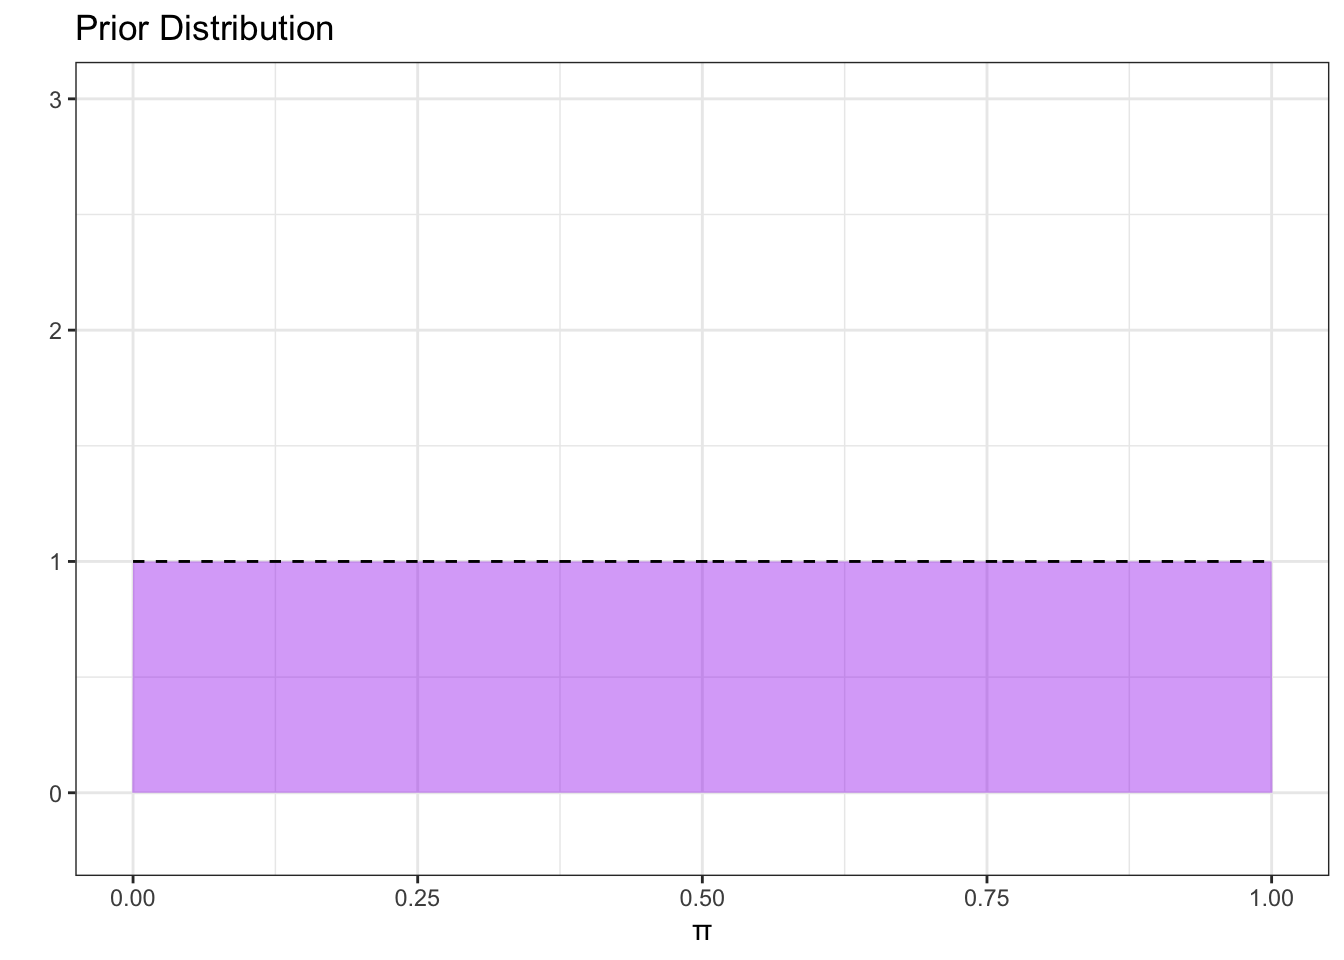
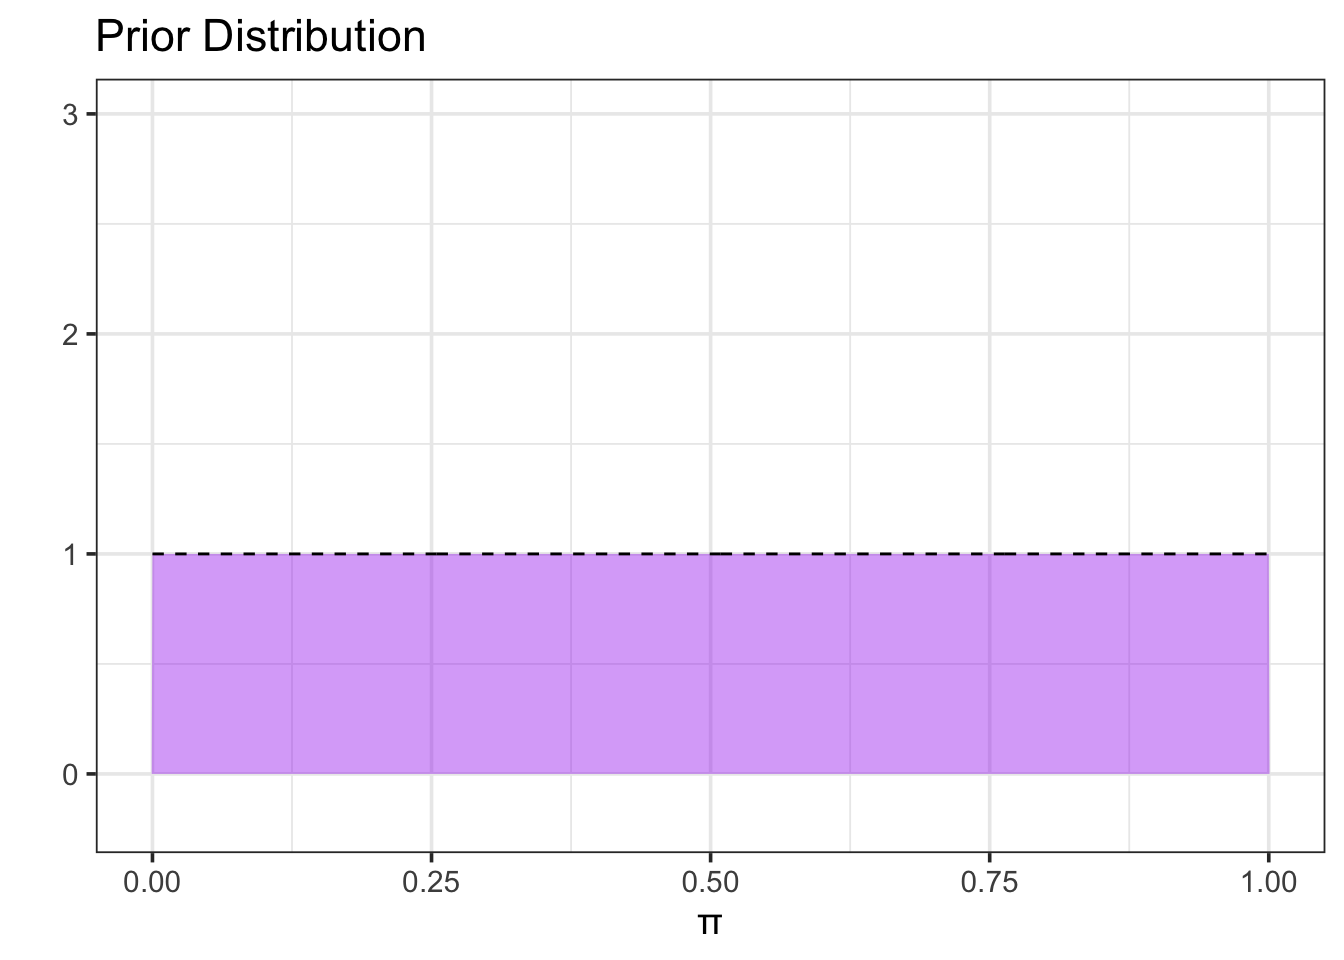
add formula for posterior

diff --git a/chytrid_prop_est_activity.html b/chytrid_prop_est_activity.html
@@ -359,7 +359,7 @@ globalThis.qwebrCustomizedWebROptions = {
 };
 
 // Store cell data
-globalThis.qwebrCellDetails = [{"code":"#Update alpha and beta here\n##number of prior observed successes\nalpha <- 1\n##number of prior observed failures\nbeta <- 1\n\n#Fewer points results in more jagged pictures\ngrid_pts <- 500\n\nmy_dists <- tibble(\n  pi = seq(0, 1, length.out = grid_pts),\n  prior_prob = dbeta(pi, alpha, beta)\n)\n\nmy_dists %>%\n  ggplot() + \n  geom_area(aes(x = pi, y = prior_prob), \n            fill = \"purple\", alpha = 0.4) + \n  geom_line(aes(x = pi, y = prior_prob),\n            linetype = \"dashed\") + \n  labs(\n    title = \"Prior Distribution\",\n    x = \"π\",\n    y = \"\"\n  ) + \n  theme_bw()","id":1,"options":{"message":"true","out-height":"","autorun":"false","editor-word-wrap":"true","classes":"","results":"markup","editor-max-height":"","comment":"","context":"interactive","out-width":"700px","output":"true","dpi":72,"editor-font-scale":"1","fig-cap":"","warning":"true","read-only":"false","editor-quick-suggestions":"false","fig-width":7,"fig-height":5,"label":"unnamed-chunk-1"}},{"code":"num_frogs <- 12\nset.seed(071524)\nmy_data <- tibble(\n  frog_number = 1:num_frogs,\n  status = sample(c(\"positive\", \"negative\"), \n                  size = num_frogs,\n                  prob = c(0.7, 0.3), \n                  replace = TRUE)\n)\n\nnum_pos <- my_data %>%\n  filter(status == \"positive\") %>%\n  nrow()\n\nprint(paste0(\"Of the \", num_frogs, \n             \" frogs observed, the number positive for Chytrid fungus was \", \n             num_pos, \".\"))","id":2,"options":{"message":"true","out-height":"","autorun":"false","editor-word-wrap":"true","classes":"","results":"markup","editor-max-height":"","comment":"","context":"interactive","out-width":"700px","output":"true","dpi":72,"editor-font-scale":"1","fig-cap":"","warning":"true","read-only":"false","editor-quick-suggestions":"false","fig-width":7,"fig-height":5,"label":"unnamed-chunk-2"}},{"code":"my_dists <- my_dists %>%\n  mutate(\n    post_prob = choose(num_frogs, num_pos)*pi^num_pos*(1 - pi)^(num_frogs - num_pos)*prior_prob,\n    post_prob_normalized = post_prob/(sum(post_prob)*1/grid_pts)\n    )\n\nmy_dists %>%\n  ggplot() + \n  geom_area(aes(x = pi, y = prior_prob), \n            fill = \"purple\", alpha = 0.4) + \n  geom_line(aes(x = pi, y = prior_prob),\n            linetype = \"dashed\") + \n  geom_area(aes(x = pi, y = post_prob_normalized), \n            fill = \"orange\", alpha = 0.7) + \n  geom_line(aes(x = pi, y = post_prob_normalized),\n            linetype = \"dashed\") +\n  labs(\n    title = \"Prior and Posterior Distributions\",\n    x = \"π\",\n    y = \"\"\n  ) + \n  theme_bw()","id":3,"options":{"message":"true","out-height":"","autorun":"false","editor-word-wrap":"true","classes":"","results":"markup","editor-max-height":"","comment":"","context":"interactive","out-width":"700px","output":"true","dpi":72,"editor-font-scale":"1","fig-cap":"","warning":"true","read-only":"false","editor-quick-suggestions":"false","fig-width":7,"fig-height":5,"label":"unnamed-chunk-3"}},{"code":"bounds <- my_dists %>%\n  mutate(post_percentile = cumsum(post_prob_normalized*(1/grid_pts))) %>%\n  mutate(from_lower = abs(post_percentile - 0.025),\n         from_upper = abs(post_percentile - 0.975)) %>%\n  filter((from_lower == min(from_lower)) | (from_upper == min(from_upper)))\n\nbounds","id":4,"options":{"message":"true","out-height":"","autorun":"false","editor-word-wrap":"true","classes":"","results":"markup","editor-max-height":"","comment":"","context":"interactive","out-width":"700px","output":"true","dpi":72,"editor-font-scale":"1","fig-cap":"","warning":"true","read-only":"false","editor-quick-suggestions":"false","fig-width":7,"fig-height":5,"label":"unnamed-chunk-4"}}];
+globalThis.qwebrCellDetails = [{"options":{"message":"true","fig-height":5,"dpi":72,"editor-max-height":"","label":"unnamed-chunk-1","warning":"true","editor-word-wrap":"true","fig-cap":"","out-height":"","context":"interactive","autorun":"false","classes":"","results":"markup","fig-width":7,"out-width":"700px","editor-font-scale":"1","output":"true","read-only":"false","comment":"","editor-quick-suggestions":"false"},"code":"#Update alpha and beta here\n##number of prior observed successes\nalpha <- 1\n##number of prior observed failures\nbeta <- 1\n\n#Fewer points results in more jagged pictures\ngrid_pts <- 500\n\nmy_dists <- tibble(\n  pi = seq(0, 1, length.out = grid_pts),\n  prior_prob = dbeta(pi, alpha, beta)\n)\n\nmy_dists %>%\n  ggplot() + \n  geom_area(aes(x = pi, y = prior_prob), \n            fill = \"purple\", alpha = 0.4) + \n  geom_line(aes(x = pi, y = prior_prob),\n            linetype = \"dashed\") + \n  labs(\n    title = \"Prior Distribution\",\n    x = \"π\",\n    y = \"\"\n  )","id":1},{"options":{"message":"true","fig-height":5,"dpi":72,"editor-max-height":"","label":"unnamed-chunk-2","warning":"true","editor-word-wrap":"true","fig-cap":"","out-height":"","context":"interactive","autorun":"false","classes":"","results":"markup","fig-width":7,"out-width":"700px","editor-font-scale":"1","output":"true","read-only":"false","comment":"","editor-quick-suggestions":"false"},"code":"num_frogs <- 12\nset.seed(071524)\nmy_data <- tibble(\n  frog_number = 1:num_frogs,\n  status = sample(c(\"positive\", \"negative\"), \n                  size = num_frogs,\n                  prob = c(0.7, 0.3), \n                  replace = TRUE)\n)\n\nnum_pos <- my_data %>%\n  filter(status == \"positive\") %>%\n  nrow()\n\nprint(paste0(\"Of the \", num_frogs, \n             \" frogs observed, the number positive for Chytrid fungus was \", \n             num_pos, \".\"))","id":2},{"options":{"message":"true","fig-height":5,"dpi":72,"editor-max-height":"","label":"unnamed-chunk-3","warning":"true","editor-word-wrap":"true","fig-cap":"","out-height":"","context":"interactive","autorun":"false","classes":"","results":"markup","fig-width":7,"out-width":"700px","editor-font-scale":"1","output":"true","read-only":"false","comment":"","editor-quick-suggestions":"false"},"code":"my_dists <- my_dists %>%\n  mutate(\n    post_prob = choose(num_frogs, num_pos)*pi^num_pos*(1 - pi)^(num_frogs - num_pos)*prior_prob,\n    post_prob_normalized = post_prob/(sum(post_prob)*1/grid_pts)\n    )\n\nmy_dists %>%\n  ggplot() + \n  geom_area(aes(x = pi, y = prior_prob), \n            fill = \"purple\", alpha = 0.4) + \n  geom_line(aes(x = pi, y = prior_prob),\n            linetype = \"dashed\") + \n  geom_area(aes(x = pi, y = post_prob_normalized), \n            fill = \"orange\", alpha = 0.7) + \n  geom_line(aes(x = pi, y = post_prob_normalized),\n            linetype = \"dashed\") +\n  labs(\n    title = \"Prior and Posterior Distributions\",\n    x = \"π\",\n    y = \"\"\n  )","id":3},{"options":{"message":"true","fig-height":5,"dpi":72,"editor-max-height":"","label":"unnamed-chunk-4","warning":"true","editor-word-wrap":"true","fig-cap":"","out-height":"","context":"interactive","autorun":"false","classes":"","results":"markup","fig-width":7,"out-width":"700px","editor-font-scale":"1","output":"true","read-only":"false","comment":"","editor-quick-suggestions":"false"},"code":"bounds <- my_dists %>%\n  mutate(post_percentile = cumsum(post_prob_normalized*(1/grid_pts))) %>%\n  mutate(from_lower = abs(post_percentile - 0.025),\n         from_upper = abs(post_percentile - 0.975)) %>%\n  filter((from_lower == min(from_lower)) | (from_upper == min(from_upper)))\n\nbounds","id":4}];
 
 </script>
 <script type="module">
@@ -1606,7 +1606,7 @@ window.Quarto = {
   <li><a href="#prior-assumptions" id="toc-prior-assumptions" class="nav-link" data-scroll-target="#prior-assumptions">Prior Assumptions</a></li>
   </ul></li>
   <li><a href="#observed-data" id="toc-observed-data" class="nav-link" data-scroll-target="#observed-data">Observed Data</a></li>
-  <li><a href="#update-to-posterior" id="toc-update-to-posterior" class="nav-link" data-scroll-target="#update-to-posterior">Update to Posterior</a>
+  <li><a href="#obtaining-the-posterior" id="toc-obtaining-the-posterior" class="nav-link" data-scroll-target="#obtaining-the-posterior">Obtaining the Posterior</a>
   <ul class="collapse">
   <li><a href="#credible-interval-for-pi" id="toc-credible-interval-for-pi" class="nav-link" data-scroll-target="#credible-interval-for-pi">Credible interval for <span class="math inline">\(\pi\)</span></a></li>
   </ul></li>
@@ -2023,8 +2023,7 @@ globalThis.qwebrCreateMonacoEditorInstance = function (cellData) {
 <span id="cb1-19"><a href="#cb1-19" aria-hidden="true" tabindex="-1"></a>    <span class="at">x =</span> <span class="st">"π"</span>,</span>
 <span id="cb1-20"><a href="#cb1-20" aria-hidden="true" tabindex="-1"></a>    <span class="at">y =</span> <span class="st">""</span></span>
 <span id="cb1-21"><a href="#cb1-21" aria-hidden="true" tabindex="-1"></a>  ) <span class="sc">+</span> </span>
-<span id="cb1-22"><a href="#cb1-22" aria-hidden="true" tabindex="-1"></a>  <span class="fu">ylim</span>(<span class="fu">c</span>(<span class="sc">-</span><span class="fl">0.2</span>, <span class="dv">3</span>)) <span class="sc">+</span> </span>
-<span id="cb1-23"><a href="#cb1-23" aria-hidden="true" tabindex="-1"></a>  <span class="fu">theme_bw</span>()</span></code><button title="Copy to Clipboard" class="code-copy-button"><i class="bi"></i></button></pre></div>
+<span id="cb1-22"><a href="#cb1-22" aria-hidden="true" tabindex="-1"></a>  <span class="fu">ylim</span>(<span class="fu">c</span>(<span class="sc">-</span><span class="fl">0.2</span>, <span class="dv">3</span>))</span></code><button title="Copy to Clipboard" class="code-copy-button"><i class="bi"></i></button></pre></div>
 <div class="cell-output-display">
 <div>
 <figure class="figure">
@@ -2043,10 +2042,9 @@ Shape of Prior
 </div>
 </div>
 <div class="callout-body-container callout-body">
-<p>The Beta-distribution we use here is commonly used with binomial data. It is determined by two shape parameters <code>alpha</code> (<span class="math inline">\(\alpha\)</span>) and <code>beta</code> (<span class="math inline">\(\beta\)</span>). We can think of <span class="math inline">\(\alpha\)</span> as the number of previously observed successes and <span class="math inline">\(\beta\)</span> as the number of previously observed failures. With <span class="math inline">\(\alpha = 1\)</span> and <span class="math inline">\(\beta = 1\)</span> we have a prior that allows for both successes and failures (<span class="math inline">\(\pi \neq 0\)</span> and <span class="math inline">\(\pi \neq 1\)</span>) but which has very little certainty about the true value of <span class="math inline">\(\pi\)</span>.</p>
+<p>The Beta-distribution we use here is commonly used with binomial data. It is determined by two shape parameters <code>alpha</code> (<span class="math inline">\(\alpha\)</span>) and <code>beta</code> (<span class="math inline">\(\beta\)</span>). We can think of <span class="math inline">\(\alpha\)</span> as the number of previously observed successes and <span class="math inline">\(\beta\)</span> as the number of previously observed failures. With <span class="math inline">\(\alpha = 1\)</span> and <span class="math inline">\(\beta = 1\)</span>, we have a prior that allows for both successes and failures (<span class="math inline">\(\pi \neq 0\)</span> and <span class="math inline">\(\pi \neq 1\)</span>) but which has no other certainty about the true value of <span class="math inline">\(\pi\)</span>.</p>
 </div>
 </div>
-<p>Notice in the prior distribution that all values of <span class="math inline">\(\pi\)</span> are equally likely. In the code to generate the <code>my_prior</code> data frame, you can think of the first argument as the probability of a success, the second argument as the number of prior successes observed, and the third argument as the number of prior failures observed. Choosing a prior with two observations, one success and one failure results in this uniform prior.</p>
 </section>
 </section>
 <section id="observed-data" class="level2">
@@ -2075,9 +2073,10 @@ Shape of Prior
 </div>
 </div>
 </section>
-<section id="update-to-posterior" class="level2">
-<h2 class="anchored" data-anchor-id="update-to-posterior">Update to Posterior</h2>
-<p>Now we’ll use our data to update the prior distribution.</p>
+<section id="obtaining-the-posterior" class="level2">
+<h2 class="anchored" data-anchor-id="obtaining-the-posterior">Obtaining the Posterior</h2>
+<p>Now we’ll use our data to update the <em>prior</em> distribution and obtain the <em>posterior</em> distribution for our population proportion. We obtain the posterior distribution by multiplying the prior by the <em>likelihood</em> function and then dividing by a normalizing factor to ensure that the result is a probability density (that is, the total probability is 1). The likelihood measures the probability of observing our data at each possible value of the population proportion.</p>
+<p><span class="math display">\[\underbrace{\mathbb{P}\left[\text{proportion} | \text{data}\right]}_{\text{posterior}} = \frac{\overbrace{\mathbb{P}\left[\text{data} | \text{proportion}\right]}^{\text{likelihood}}\cdot \overbrace{\mathbb{P}\left[\text{proportion}\right]}^{\text{prior}}}{\underbrace{\mathbb{P}\left[\text{data}\right]}_{\text{normalizing factor}}}\]</span></p>
 <div class="cell">
 <div class="sourceCode cell-code" id="cb4"><pre class="sourceCode r code-with-copy"><code class="sourceCode r"><span id="cb4-1"><a href="#cb4-1" aria-hidden="true" tabindex="-1"></a>my_dists <span class="ot">&lt;-</span> my_dists <span class="sc">%&gt;%</span></span>
 <span id="cb4-2"><a href="#cb4-2" aria-hidden="true" tabindex="-1"></a>  <span class="fu">mutate</span>(</span>
@@ -2098,8 +2097,7 @@ Shape of Prior
 <span id="cb4-17"><a href="#cb4-17" aria-hidden="true" tabindex="-1"></a>    <span class="at">title =</span> <span class="st">"Prior and Posterior Distributions"</span>,</span>
 <span id="cb4-18"><a href="#cb4-18" aria-hidden="true" tabindex="-1"></a>    <span class="at">x =</span> <span class="st">"π"</span>,</span>
 <span id="cb4-19"><a href="#cb4-19" aria-hidden="true" tabindex="-1"></a>    <span class="at">y =</span> <span class="st">""</span></span>
-<span id="cb4-20"><a href="#cb4-20" aria-hidden="true" tabindex="-1"></a>  ) <span class="sc">+</span> </span>
-<span id="cb4-21"><a href="#cb4-21" aria-hidden="true" tabindex="-1"></a>  <span class="fu">theme_bw</span>()</span></code><button title="Copy to Clipboard" class="code-copy-button"><i class="bi"></i></button></pre></div>
+<span id="cb4-20"><a href="#cb4-20" aria-hidden="true" tabindex="-1"></a>  )</span></code><button title="Copy to Clipboard" class="code-copy-button"><i class="bi"></i></button></pre></div>
 <div class="cell-output-display">
 <div>
 <figure class="figure">
